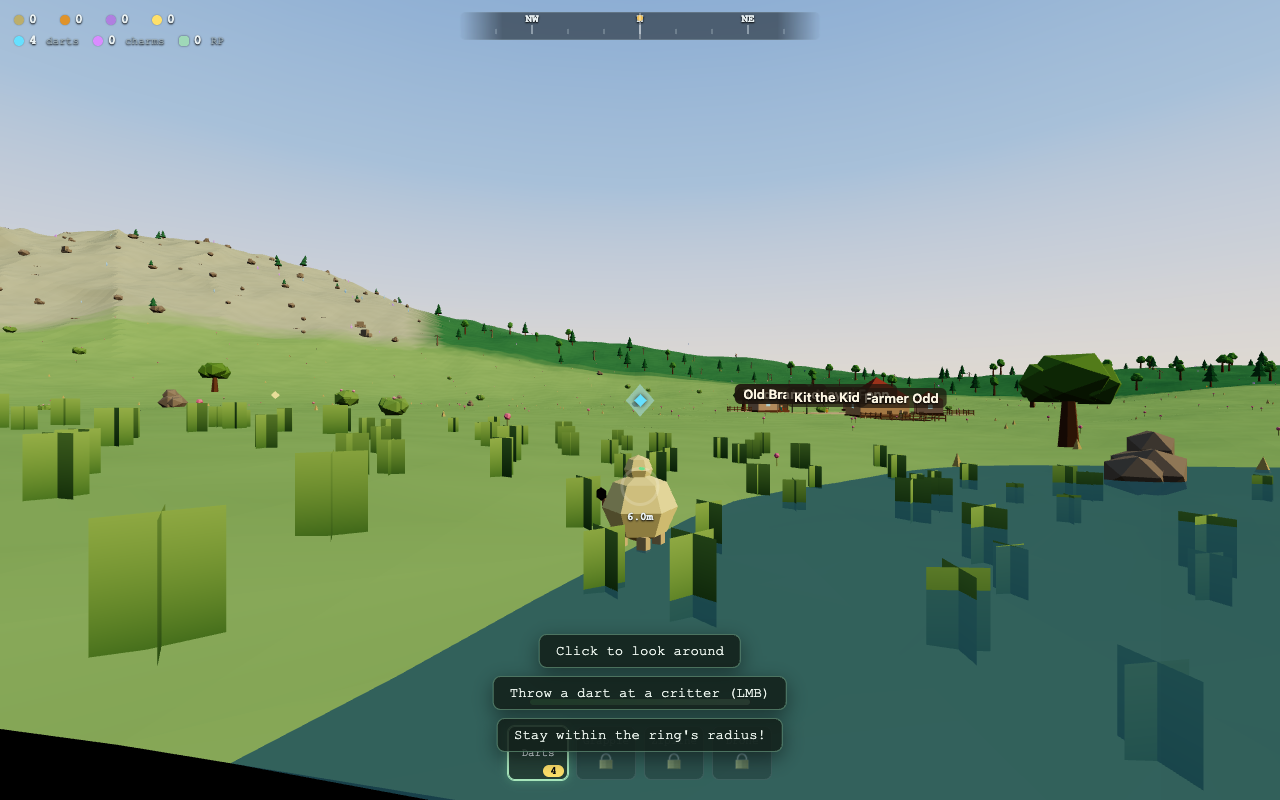
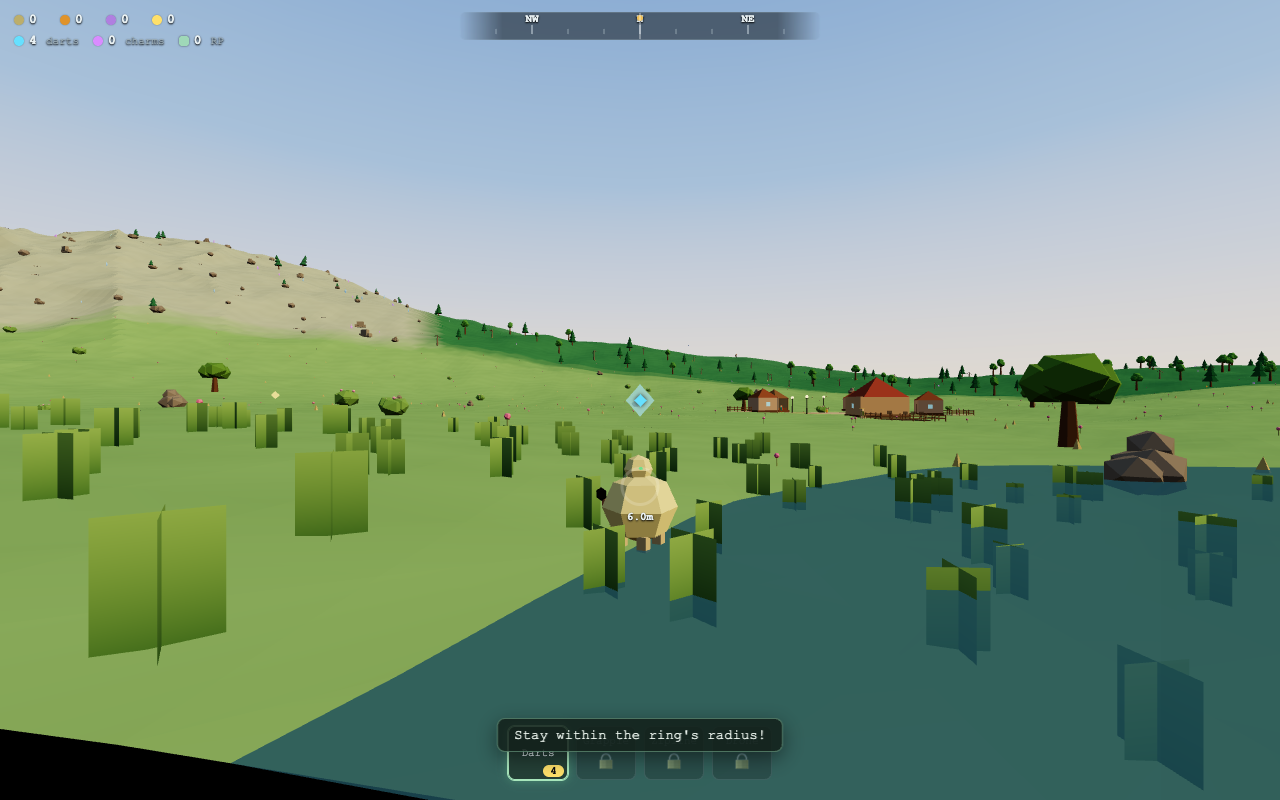
docs: rewrite FOLLOWUPS.md (resolved trail + deliberately-kept) + report
Backlog cleared; FOLLOWUPS.md now carries a "Deliberately kept" section
(prismhorse LOD, banked-production semantics) and a resolved trail.

Changed region(s): [[0.375, 0.7812, 0.625, 0.9062], [0.5625, 0.4688, 0.75, 0.5312]]

diff --git a/FOLLOWUPS.md b/FOLLOWUPS.md
@@ -1,29 +1,61 @@
 # Known fast-follows
 
-Deferred, non-blocking cleanups noted during the whole-branch review. One line each, with file refs.
+Deferred, non-blocking cleanups noted during the whole-branch review. The
+backlog below has been cleared on `chore/followups`; what remains is a short
+"deliberately kept" list of items intentionally left as-is (with reasons), plus
+a trail of what was resolved.
 
-- Zipline rider-clearance validation: `structures/ziplines.ts` should validate the cable sits ≥ `losClearance + ziplineHang` above ground, not just the current 0.5 m floor — low lines drag the rider along the ground.
-- Field Guide is static while open (`ui/guide.ts`): it snapshots on open and never refreshes, so a Link landing while the panel is up isn't reflected until reopen.
-- Grounded-grapple jitter guard (`player/controller.ts` / `player/grapple.ts`): auto-zipping into a surface while grounded can jitter the player; add a settle/clamp guard.
-- Tracking-ring anchor height on tall species (`ui/hud.ts` / `critters/manager.ts`): the ring anchors low on large models (e.g. Lumen Stag) — anchor to model height.
-- Shared per-step critter `list()` snapshot (`critters/manager.ts`): tracker + HUD + darts each call `list()` per frame — take one shared per-step snapshot to cut allocation churn.
-- Chunk-manager early-return when the player chunk is unchanged (`world/chunks.ts`): skip the rebuild scan when the player hasn't crossed a chunk boundary.
-- Buffered-jump landing float-compare brittleness (`player/controller.ts` `landedDuringStep`): the `next.vel.y === MOVE.jumpVel` exact compare is brittle — use an epsilon or an explicit landing flag.
-- e2e single-retry masks transient SwiftShader crashes (`e2e/verify.mjs`): the one automatic retry can hide a genuinely flaky/crashing phase — surface repeated retries.
+## Deliberately kept
 
-## Haven Village (phase 2)
+- **Prismhorse tri budget / LOD** (`critters/models.ts`): the 16-legged crystal
+  mount is the heaviest model, but there is only ever one active mount actor and
+  pens are capped at 8 rendered models per pen, so instancing many prismhorses
+  never happens today — a lower-poly LOD or shared geometry is moot until that
+  changes.
+- **Banked-production collect semantics** (`farm/farm.ts`): a full hopper banks
+  exactly one finished cycle that ships on the first tick after a collect. This
+  is documented and intended; noted here only so a future reader doesn't "fix" a
+  batch that reads as slightly free.
 
-Resolved in V7 (recorded for the trail): the V4 barter request now persists concretely so reloads never swap it (save `barter[].request`); pen rendering is capped at 8 models per pen with a `+N` marker (`village/pens.ts`); static farm plot tiles now recolour from live unlocks (`farm/visuals.ts`).
+## Resolved
 
-Still open (deferred, non-blocking):
+- Zipline rider-clearance — `validateZipline` now requires the cable clear
+  `losClearance + ziplineHang` along the span; added a `'low'` reason (rider
+  would drag) distinct from `'los'` + placement toast copy. (`structures/ziplines.ts`)
+- Field Guide live refresh — a Link now calls `screens.refresh()` so an open
+  guide rebuilds from `linkedSpecies()` immediately. (`main.ts`)
+- Grounded-grapple jitter — `shouldSettleGrapple` auto-releases a hook latched to
+  a near-level anchor that can't lift a grounded player. (`player/grapple.ts` / `player/controller.ts`)
+- Tracking-ring anchor height — optional per-species `ringHeight` (defaults to
+  `size * ringHeadFactor`); stag/bellowbuck/prismhorse anchor taller. (`core/types.ts` / `critters/species.ts` / `ui/hud-math.ts`)
+- Shared per-step critter snapshot — `CritterManager.list()` caches its array per
+  sim step (busted by `update()` + every population/flag change). (`critters/manager.ts`)
+- Chunk-manager early-return — `update()` skips the ring scan when the player
+  hasn't crossed a chunk boundary and the field is fully built. (`world/chunks.ts`)
+- Buffered-jump landing compare — `landedDuringStep` uses an epsilon on the
+  buffered-jump `vy` signature instead of exact float equality. (`player/controller.ts`)
+- e2e retry surfacing — `verify.mjs` counts + prints per-check retries; the
+  RESULT line reports the total, and `VERIFY_STRICT=1` fails on any retry. (`e2e/verify.mjs`)
+- Released critters persist — release re-opens the ORIGINAL wild slot
+  (`CritterManager.releaseSlot` un-consumes the registry entry, kept Linked), so
+  it survives reload and returns at its home; debug-bonded negative-id critters
+  keep the ephemeral spawn. (`main.ts` / `critters/manager.ts`)
+- Nickname RNG persisted — nicknames come from a persisted monotonic cursor
+  (`save.nameCursor`, absent→0) into a seeded shuffle of the name pool; dupes only
+  after pool exhaustion. (`critters/roster.ts` / `core/save.ts` / `main.ts`)
+- Wedged-request reroll — pure `barter.reroll` (seq+1, no reward/cost) behind an
+  "Ask for something else" dialog link. (`village/barter.ts` / `main.ts`)
+- `window.__village` gated behind a dev session (`?fresh`/`?dev`/`?debug`/
+  `?screen=roster`); `__game` stays exposed. (`main.ts`)
+- NPC label declutter — labels cull beyond 40 m and de-collide (single upward
+  offset pass). (`village/npcs.ts`)
+- Farmer Odd anchor — moved beside the plot grid so talk-F no longer competes
+  with plot collect-F. (`village/npcs.ts`)
+- Save-apply catch fallback now clears pens (`pens.load([])`). (`main.ts`)
+- Mount range check now uses the full 3D distance (includes vertical delta). (`main.ts`)
 
-- Released critters are ephemeral (`main.ts` `releaseFromRoster` / `critters/manager.ts`): a critter released from the roster respawns as a fresh wild slot but isn't persisted, so it vanishes on reload while its original slot stays consumed. Persist released critters (or re-open the original slot).
-- Nickname RNG is not persisted (`main.ts` `rosterRng`): the bonded-nickname PRNG reseeds from `WORLD_SEED` each boot, so a fresh session can regenerate a name already in use — cosmetic duplicates. Persist the RNG cursor (or the next-name index).
-- Prismhorse tri budget (`critters/models.ts`): the 16-legged crystal mount is the heaviest model; if instancing many (pens/farm), consider a lower-poly LOD or shared geometry.
-- Wedged NPC requests have no reroll (`village/barter.ts` / `village/dialog.ts`): if a request asks for a species the player can no longer obtain (all bonded/traded), there's no way to skip it — add a reroll or a "trade something else" path.
-- `window.__village` aid is ungated (`main.ts`): the screenshot helper (`talk`/`lookAt`) is always exposed, not just under a `?debug`/`?dev` flag. Harmless (no gameplay mutation) but should be gated for a release build.
-- NPC name-label overlaps (`village/npcs.ts`): labels can overlap when NPCs cluster on the plaza; no de-collision. Cosmetic.
-- Banked-production collect semantics (`farm/farm.ts`): a full hopper banks exactly one finished cycle that ships on the first tick after a collect — documented and intended, but worth revisiting if it reads as a "free" batch.
-- Farmer Odd anchor shadows farm-collect F (`village/npcs.ts:158`): the Farmer Odd NPC anchor sits within 3 m of the farm-collect F prompt, so the talk and collect interactions compete for the same key — separate the anchors or disambiguate the prompt.
-- Save-apply catch fallback doesn't clear pens (`main.ts:336-348`): the save-apply error path rebuilds core state but leaves stale pen contents in place — clear pens in the catch fallback too.
-- Mount range check is planar-only (`main.ts:667`): `handleMountKey` measures mount distance with `Math.hypot(dx, dz)` (ignoring y), so a mount directly above/below on a ledge reads as in-range — include the vertical delta or a height gate.
+### Resolved earlier (Haven V7)
+
+- V4 barter request persists concretely so reloads never swap it (`save.barter[].request`).
+- Pen rendering capped at 8 models per pen with a `+N` marker (`village/pens.ts`).
+- Static farm plot tiles recolour from live unlocks (`farm/visuals.ts`).
